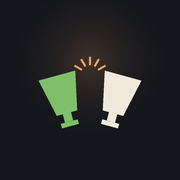
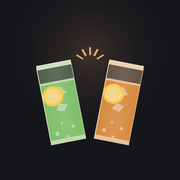
아이콘을 하이볼 잔으로 교체 (레몬·얼음·탄산)
레퍼런스 사진의 하이볼 잔을 반영:
- 길쭉한 원통 형태, 세로 홈(fluted) 커팅
- 레몬 슬라이스(껍질/과육/속살 구분), 얼음 두 조각, 탄산 기포
- 수면 라인과 잔 입구 링, 좌우 테두리 하이라이트로 유리 질감
- 오른쪽 잔은 크림색 대신 호박색(위스키 하이볼) — 흰 음료에서는
  얼음과 기포가 보이지 않아 대비를 살림

sw.js 캐시 버전 v2로 올려 설치된 폰에서도 새 아이콘이 반영되게 함.

Changed region(s): [[0.1944, 0.25, 0.8056, 0.8056]]

diff --git a/sw.js b/sw.js
@@ -1,7 +1,7 @@
 /* 둘이서 한잔 — 오프라인 지원
    게임 파일을 캐시에 담아 인터넷 없이도 실행되게 한다.
    내용을 고친 뒤에는 아래 CACHE 버전을 올려야 갱신이 반영된다. */
-const CACHE = "doori-v1";
+const CACHE = "doori-v2";
 
 // 앱 셸: 설치 시 미리 담아둔다 (상대경로 — 하위 경로 배포에서도 동작)
 const ASSETS = [
